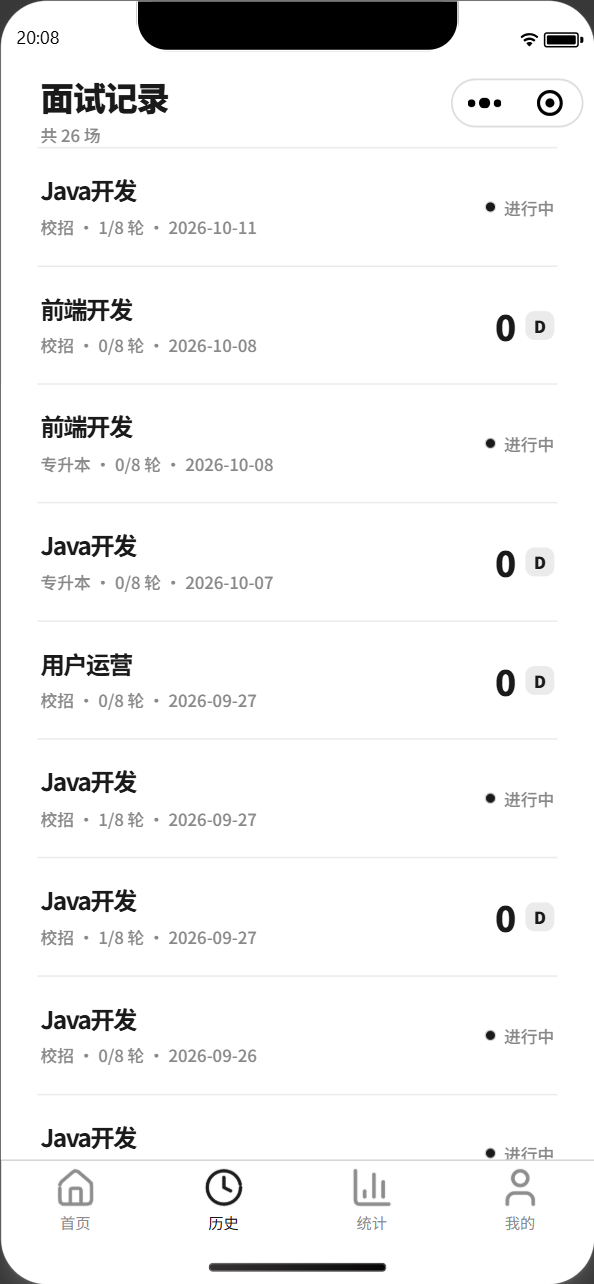
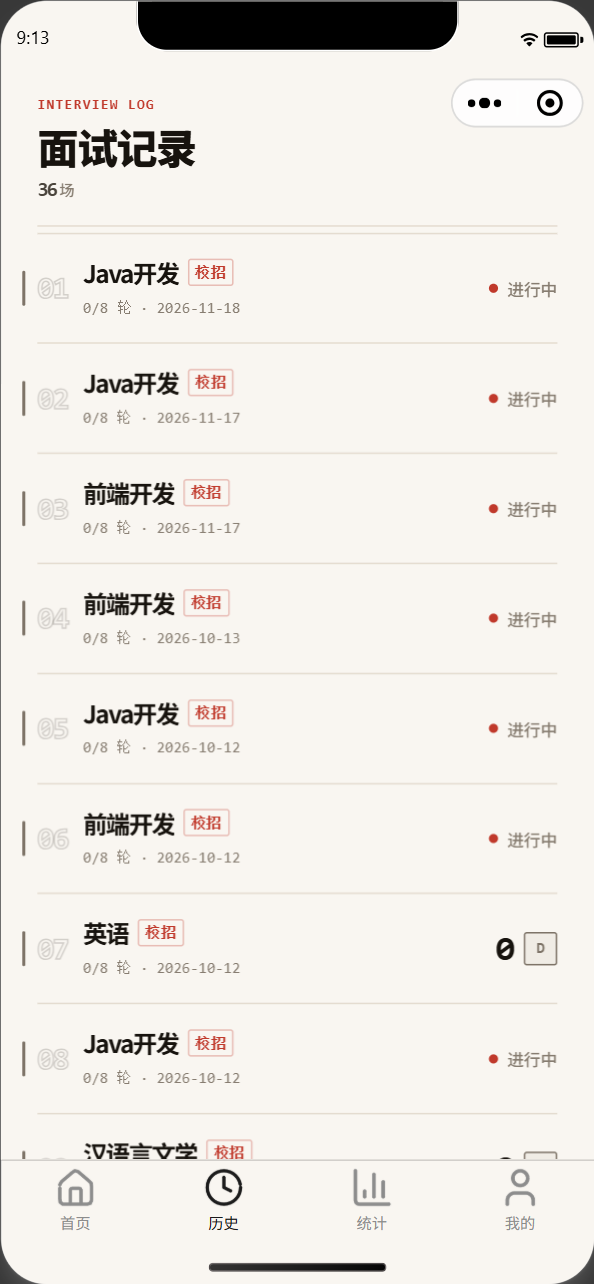
docs: 更新 v35 界面截图与社交预览

diff --git a/README.md b/README.md
@@ -23,22 +23,27 @@
 
 > 本仓库只包含前端代码，后端服务未包含在内。运行完整流程需要自行准备兼容的接口服务。
 
-## 界面预览
+## 界面预览 · v35 纸本朱砂
 
 <p align="center">
-  <img src="docs/screenshots/index.png" width="200" alt="首页" />
+  <img src="docs/screenshots/index.png" width="180" alt="首页" />
   &nbsp;
-  <img src="docs/screenshots/interview-config.png" width="200" alt="面试配置" />
+  <img src="docs/screenshots/interview-config.png" width="180" alt="面试配置" />
   &nbsp;
-  <img src="docs/screenshots/positions.png" width="200" alt="岗位库" />
+  <img src="docs/screenshots/positions.png" width="180" alt="岗位库" />
+  &nbsp;
+  <img src="docs/screenshots/interview.png" width="180" alt="面试进行" />
 </p>
 <p align="center">
-  <img src="docs/screenshots/stats.png" width="200" alt="数据统计" />
+  <img src="docs/screenshots/report.png" width="180" alt="评分报告" />
   &nbsp;
-  <img src="docs/screenshots/history.png" width="200" alt="面试记录" />
+  <img src="docs/screenshots/stats.png" width="180" alt="数据统计" />
   &nbsp;
-  <img src="docs/screenshots/profile.png" width="200" alt="个人中心" />
+  <img src="docs/screenshots/history.png" width="180" alt="面试记录" />
+  &nbsp;
+  <img src="docs/screenshots/profile.png" width="180" alt="我的" />
 </p>
+<p align="center"><sub>截图来自微信开发者工具，昵称与数据均为脱敏测试数据。</sub></p>
 
 ## 这不是一个表单套壳
 
